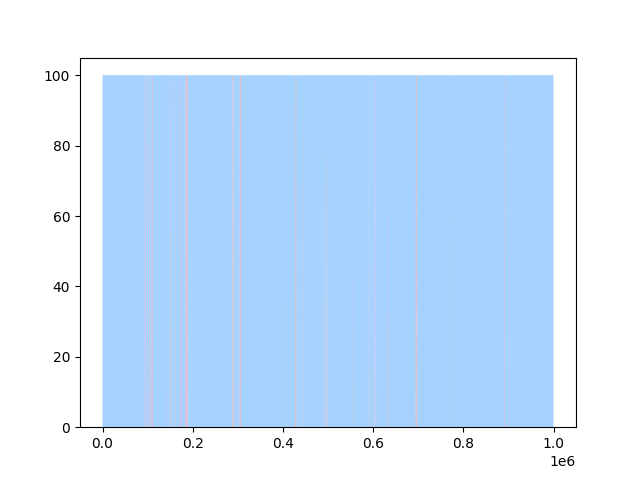
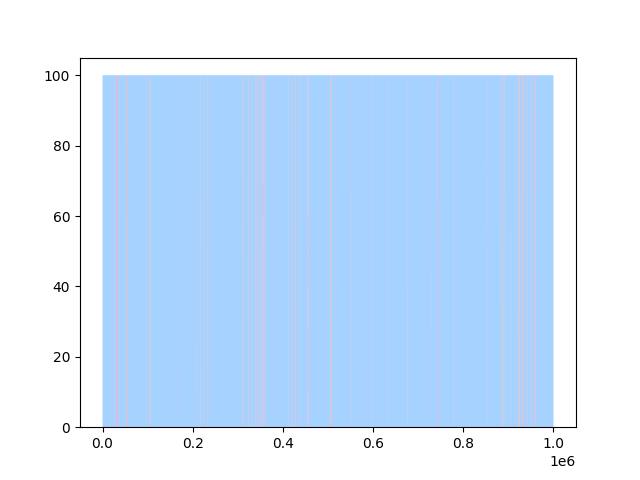
clarify a couple rough edges and run on an even bigger sim

diff --git a/topologies.tex b/topologies.tex
@@ -1,4 +1,5 @@
 \documentclass{article}
+% \twocolumn
 
 \usepackage{geometry}
 \usepackage{amsmath, amsfonts, amsthm}
@@ -69,7 +70,7 @@ algorithms to count occurences of unique species tree topologies.
 
 \subsection{Species trees distributions on a single tree}
 
-The method for computing species trees distributions is inspired by the method
+The method for computing species trees distributions is inspired by
 \twisst, which works
 by repetitively selecting samples, one from each species, and tracing the
 embedded tree that they form within the larger gene tree. Taking each
@@ -109,8 +110,8 @@ to trees with any number of polytomies.
     \label{fig:dp_alg}
 \end{figure}
 
-The algorithm state at each node is the unique topologies,
-represented by their ranks, embedded in the subtree under that node, and the
+The algorithm state at each node is the unique topologies beneath that node,
+represented by their ranks, and the
 counts of how many times each topology is represented in the subtree. This
 limits the size of the state to the number of unique species tree topologies,
 not the number of samples. At an internal node $u$, we perform a cartesian
@@ -118,8 +119,8 @@ product of the states of $u$'s children to discover disjoint species trees that
 can be combined under $u$.
 
 \begin{algorithm}
-\label{alg:dp_alg}
     \caption{Computing species tree topologies in a single gene tree}
+    \label{alg:dp_alg}
     \begin{algorithmic}
         \State state = []
 
@@ -165,12 +166,15 @@ Since there is a constant number of edges removed and inserted between trees
 in a tree sequence, this process takes only $O(\log(n)t(p)^2)$ time.
 
 \section{Discussion}
-We test this functionality by examining a \msprime{} simulation in which we've simulated
-25 thousand 1mb genomes distributed evenly between four species: orangutan,
-gorilla, chimp and human. This produced a \tskit{} tree sequence with
-31 thousand trees. Figure~\ref{fig:great_apes} ilustrates the four unique
+We test this functionality by examining a \msprime{} simulation of four species:
+orangutan, gorilla, chimp and human. The simulation was seeded with the underlying
+species trees represented in Newick form as: (orangutan, (gorilla, (human, chimp))).
+Sampling 1 million 1mb genomes distributed evenly among the four species
+produced a \tskit{} tree sequence with 43 thousand trees.
+Figure~\ref{fig:great_apes} ilustrates the four unique
 species tree topologies represented in the tree sequence, the positions
-along the sequence they were observed, and the frequency of each.
+along the sequence they were observed, and the frequency of each weighted by
+the length of the sequence they span.
 
 \begin{figure}[H]
     \begin{minipage}{.48\textwidth}
@@ -199,41 +203,53 @@ along the sequence they were observed, and the frequency of each.
                 \subcaption{0.01\% weighted}
             \end{subfigure}
         \end{minipage}
+        \centering
     \end{minipage}
     \centering
-    \caption{Great apes simulation species trees across the genome}
+    \caption{Great apes simulation species trees across the genome TODO add labels!}
     \label{fig:great_apes}
 \end{figure}
 
-The performance benefits of using an incremental approach is evident when
-examining the time taken per tree. Computing Algorithm~\ref{alg:dp_alg}
-took just over 1.4 seconds as it computed the topologies for every node in
-the 25 thousand leaf tree. For subsequent trees, however, only partial
-applications of the algorithm must be made to update species topologies, and
-\tskit{} is able to process over 130 trees per second, resulting in an overall
-runtime of 4 minutes and 28 seconds.
+The results are overwhelmingly aligned with the species tree that seeded the
+simulation. Though there do exist three alternative topologies, where the
+genetic material coalesces differently. On left, we can identify the exact
+intervals where these anomalous topologies are observed.
 
+The performance benefits of using an incremental approach is evident when
+examining the execution time per tree. Figure~\ref{fig:incremental_times}
+show the per-tree wall time and the rate of trees processed per second
+for the great apes simulation.
 \begin{figure}[H]
-    \includegraphics[scale=0.75]{incremental_times.png}
+    \includegraphics[height=6cm]{trees_per_sec.png}
     \centering
-    \caption{Per-tree wall time for computing species trees along a sequence}
+    \caption{Trees processed per second across great apes simulation, TODO Add labels!}
     \label{fig:incremental_times}
 \end{figure}
 
-% TODO
-I think this would look much better as trees per second, but this was easier
-for late-night me. Also none of these graphs have axes labels.
+The process described in Algorithm~\ref{alg:dp_alg}
+took nearly a minute to compute the distribution of species trees for the first tree,
+also creating the reusable state for every node in the million-leaf tree.
+For subsequent trees, however, only partial
+applications of the algorithm must be made to update species topologies, and
+\tskit{} was able to process roughly 110 trees per second, resulting in an overall
+runtime of 7 minutes and 8 seconds. Both the simulation and species tree analysis
+were run on a 2015 MacBook Pro with 8GB of RAM (small flex).
 
-It is worth noting that this algorithm can be used very broadly, but is optimized
-for a particular use-case. The combinatorial method of ranking trees contributes
-little to the overall runtime because the species trees we are ranking are very
-small. More efficient indexing methods may be useful when computing on larger
-numbers of species. Additionally, the higher the correlation between trees the
-better the gains from using an incremental approach. Current inference methods
+This simulation portrays an optimal use case for this algorithm. With the tree
+sequence being nearly monophyletic, the $p$ term in the algorithm complexity is
+nearly nothing. Tree sequences with much more intra-species diversity will express
+more species tree topologies and inflate the algorithm state. But ultimately this
+overhead is limited by the number of species, $p$, and not by sample size, so will
+not have an overwhelming impact on performance. The combinatorial method of ranking
+species trees works elegantly in these use cases where $p$ is small and therefore has
+a negligible contribution to the overall runtime. Analyses with larger numbers of
+species may benefit from a more efficient indexing mechanism.
+
+Additionally, higher correlation between adjacent trees implies
+better gains from using an incremental approach. Current inference methods
 like \tsinfer{} can generate succinct tree sequences from variant data, but might
 not achieve the compression exhibited in simulated tree sequences and thus
-are slower to compute on. Nevertheless, this does mean that improvements in
-inference technology have a compounding effect on the speed and accuracy
-at which incremental algorithms, such as this one, operate.
-
+are slower to compute on. Nevertheless, improvements in inference technology have
+a compounding effect as tree sequences become more accurate and more compressed,
+making incremental algorithms such as this one, faster and more insightful.
 \end{document}

diff --git a/examples/great_apes.py b/examples/great_apes.py
@@ -2,6 +2,7 @@ import sys
 import msprime
 from tqdm import tqdm
 import time
+import math
 
 from util import area_plot, plot_speed
 
@@ -30,18 +31,29 @@ def run(sample_size):
     ts = great_apes(sample_size)
     species_topologies = []
     times = []
+    rates = []
+    iters_per_sec = 0
     start = time.time()
+    stop = start
     for top in tqdm(ts.count_topologies(), total=ts.num_trees):
+        times.append(time.time() - stop)
         stop = time.time()
-        times.append(stop - start)
+        iters_per_sec += 1
+        interval = stop - start
+        if interval >= 1:
+            for _ in range(math.floor(interval)):
+                rates.append(iters_per_sec / math.floor(interval))
+            iters_per_sec = 0
+            start = time.time()
+
         species_topologies.append(top[0, 1, 2, 3])
-        start = time.time()
 
     area_plot(species_topologies,
               ts.breakpoints(as_array=True)[:-1],
               {0: "human", 1: "chimp", 2: "gorilla", 3: "orangutan"},
               "great_apes_area_plot")
-    plot_speed(times, "incremental_times")
+    plot_speed(times, "time_per_tree")
+    plot_speed(rates, "trees_per_sec")
 
 
 if __name__ == '__main__':
